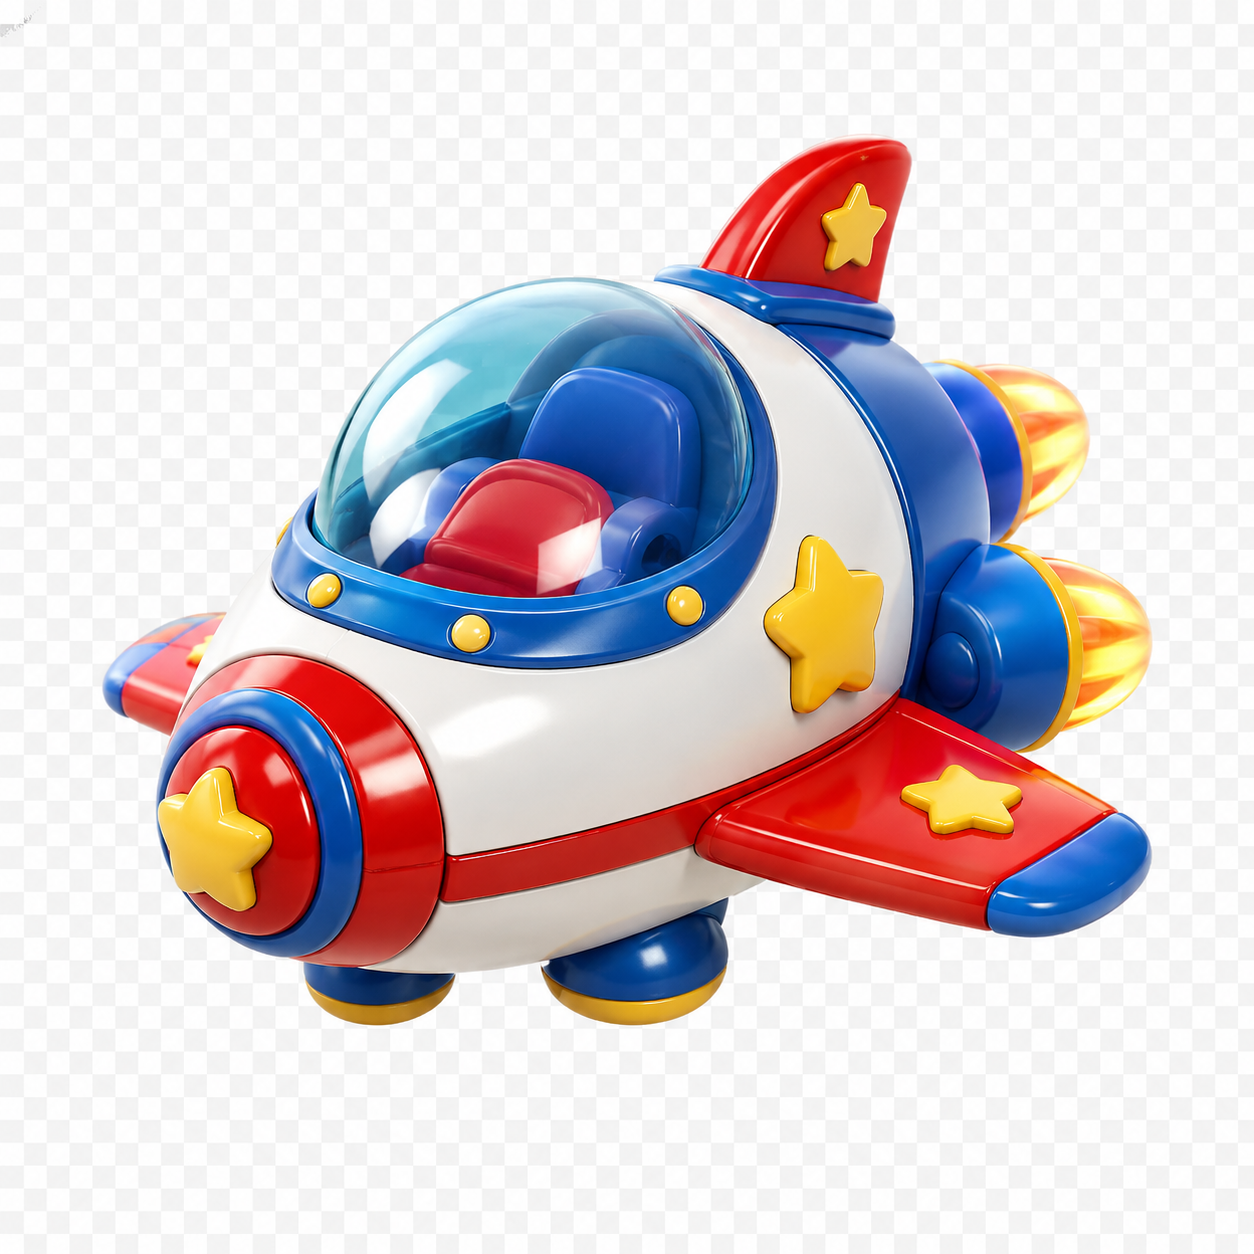
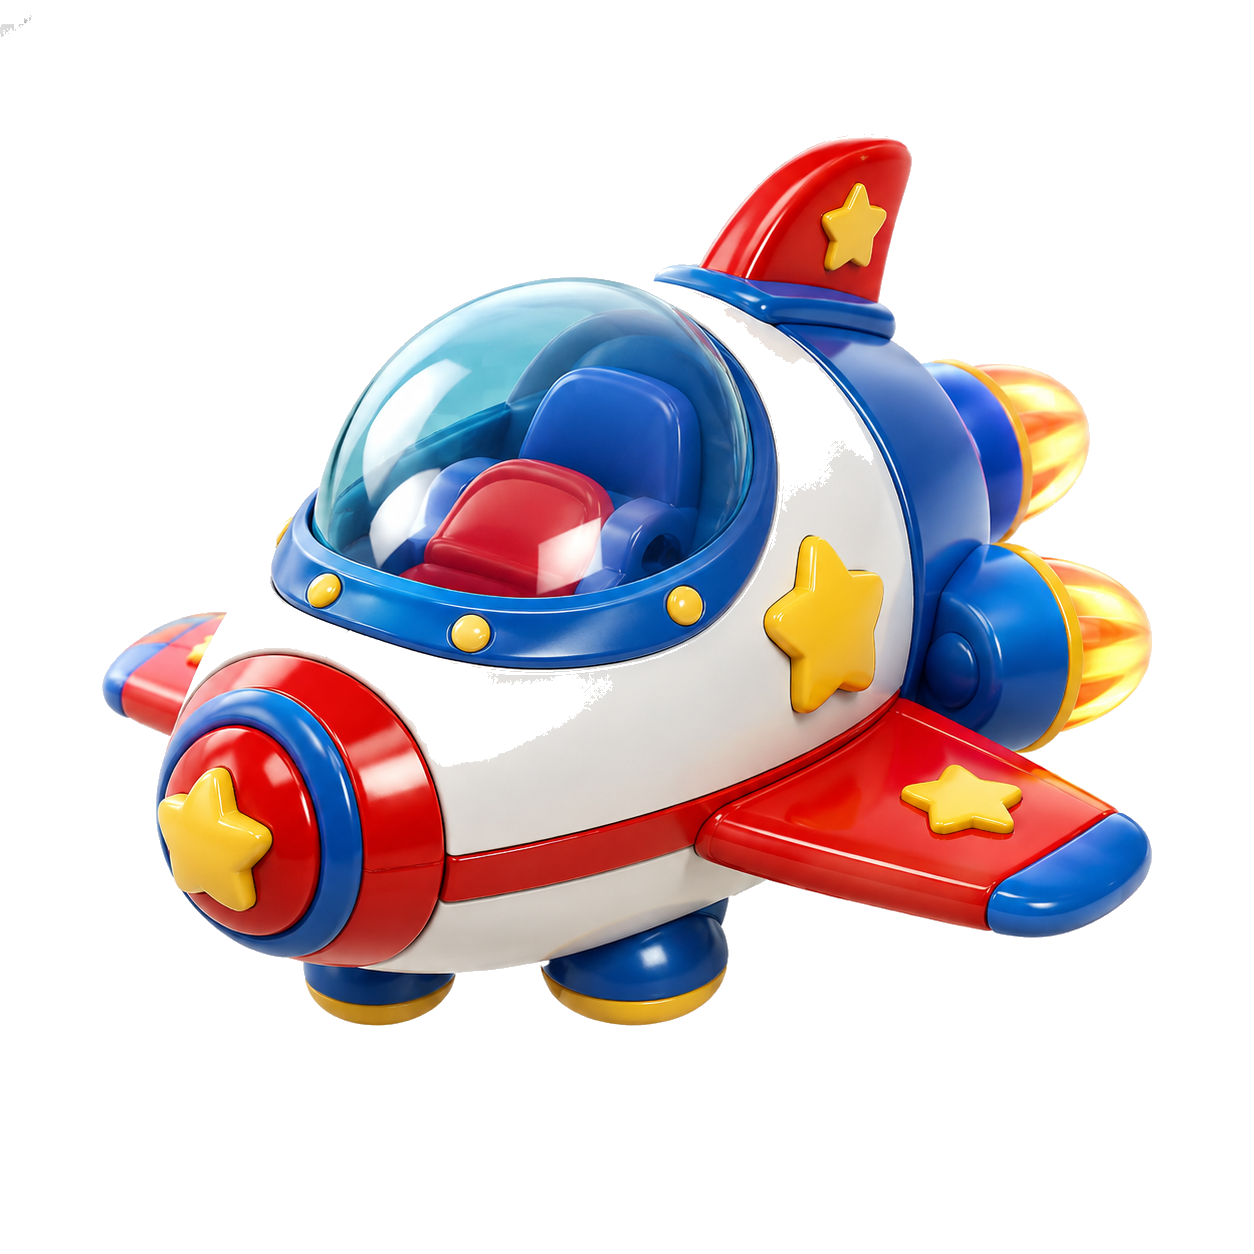
Fix purchases, adopt/buy message, coin colors, remove image backgrounds

Changed region(s): [[0.5598, 0.2177, 0.7153, 0.4043], [0.311, 0.5287, 0.4976, 0.622]]

diff --git a/store.html b/store.html
@@ -519,9 +519,10 @@
 
     /* Coin colors */
     .coin-dollar  { background:radial-gradient(circle at 35% 35%, #4ade80, #15803d); border:3px solid #166534; }
-    .coin-quarter { background:radial-gradient(circle at 35% 35%, #fde68a, #b45309); border:3px solid #92400e; }
+    .coin-quarter { background:radial-gradient(circle at 35% 35%, #e2e8f0, #94a3b8); border:3px solid #64748b; }
     .coin-dime    { background:radial-gradient(circle at 35% 35%, #e2e8f0, #64748b); border:3px solid #475569; width:58px; height:58px; }
     .coin-nickel  { background:radial-gradient(circle at 35% 35%, #d4d4d4, #737373); border:3px solid #525252; }
+    .coin-penny   { background:radial-gradient(circle at 35% 35%, #fde68a, #b45309); border:3px solid #92400e; }
 
     /* Progress bar */
     .register-progress-wrap {
@@ -773,6 +774,19 @@
       }
       saveUsers(users);
       localStorage.setItem(MONEY_KEY, '9999.99');
+      // Pre-own all new items for admin account
+      var rawP = localStorage.getItem(PURCH_KEY);
+      var p = {}; try { var tmp = JSON.parse(rawP||'{}'); if(Array.isArray(tmp)){tmp.forEach(function(id){p[id]=1;});}else{p=tmp;} } catch(e){}
+      var newIds = ['bear','cheetah','tiger','lion','robo-dog',
+        'dino-bowl','bear-food','lion-food','tiger-food','cheetah-food',
+        'spaceship',
+        'acc-soccer-ball','acc-basketball','acc-football','acc-baseball','acc-tennis',
+        'acc-hockey','acc-golf','acc-dumbbells','acc-trophy','acc-pet-trophy',
+        'race-car','paw-race-car','monster-truck','bulldozer','fire-truck',
+        'train-engine','paw-plane','jet-plane','propeller-plane',
+        'rocket-ship','spaceship-acc','ufo'];
+      newIds.forEach(function(id){ if(!p[id]) p[id]=1; });
+      localStorage.setItem(PURCH_KEY, JSON.stringify(p));
     })();
 
     /* ?money=1 in URL → load $99.99 for testing */
@@ -1891,14 +1905,18 @@
     } else {
       dingEmojiEl.textContent = regItem.emoji || '🎉';
     }
-    document.getElementById('dingItemName').textContent = 'You got ' + regItem.name + '!';
+    var VEHICLE_IDS_MSG = ['race-car','paw-race-car','monster-truck','bulldozer','fire-truck','train-engine','paw-plane','jet-plane','propeller-plane','rocket-ship','spaceship-acc','ufo'];
+    var isPet     = PETS.some(function(p){ return p.id === regItem.id; });
+    var isVehicle = VEHICLE_IDS_MSG.indexOf(regItem.id) >= 0;
+    var action    = isPet ? 'You adopted ' : isVehicle ? 'You bought a ' : 'You got ';
+    var dingMsg   = isPet ? 'You adopted ' + regItem.name + '!' : isVehicle ? 'You bought a ' + regItem.name + '!' : 'You got ' + regItem.name + '!';
+    document.getElementById('dingItemName').textContent = dingMsg;
 
-    speakText('Ding! You paid! You got ' + regItem.name + '! Amazing job!');
-    showToast('🎉 You got ' + regItem.name + '!');
+    speakText('Ding! You paid! ' + dingMsg + ' Amazing job!');
+    showToast('🎉 ' + dingMsg);
 
     setTimeout(function() {
-      closeRegister();
-      window.location.reload();
+      window.location.reload(true);
     }, 2200);
   }
 
